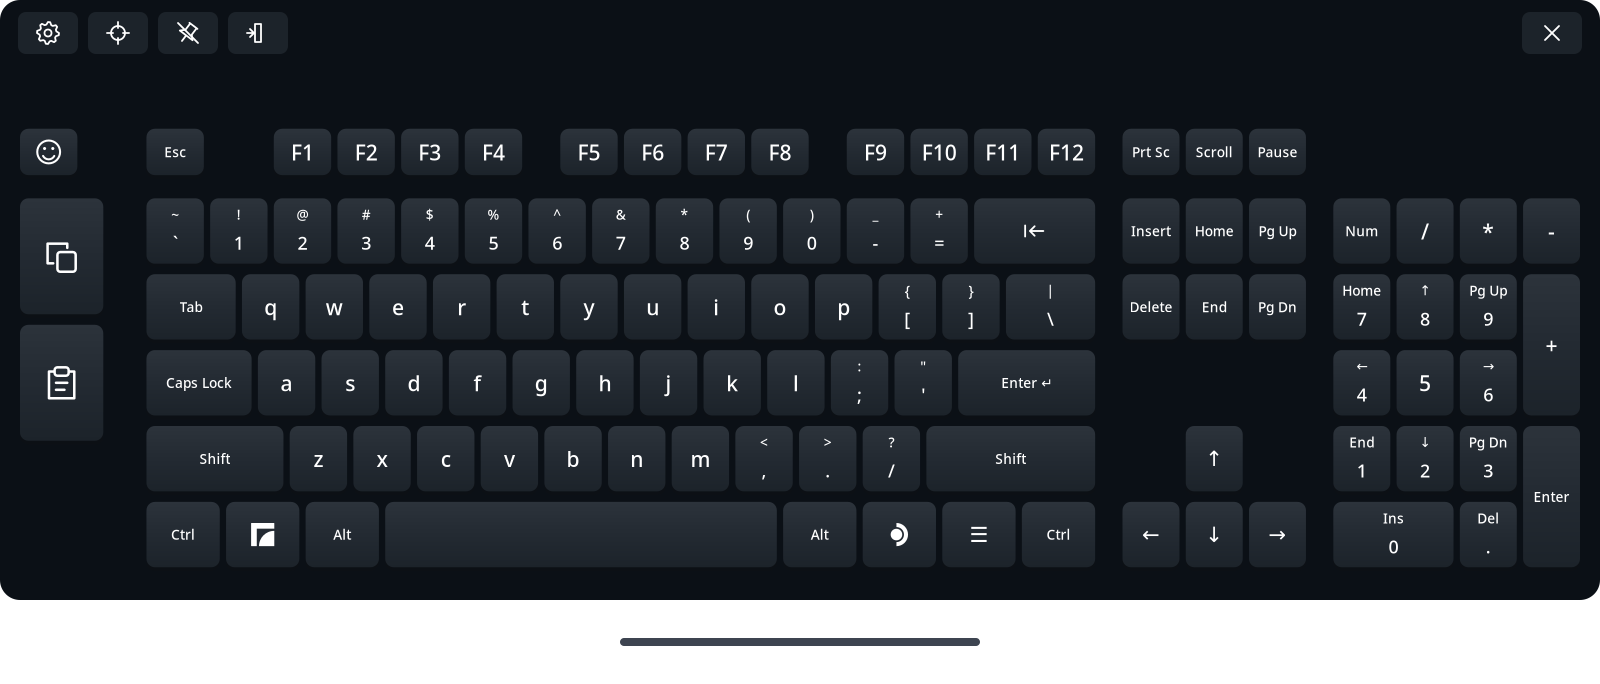
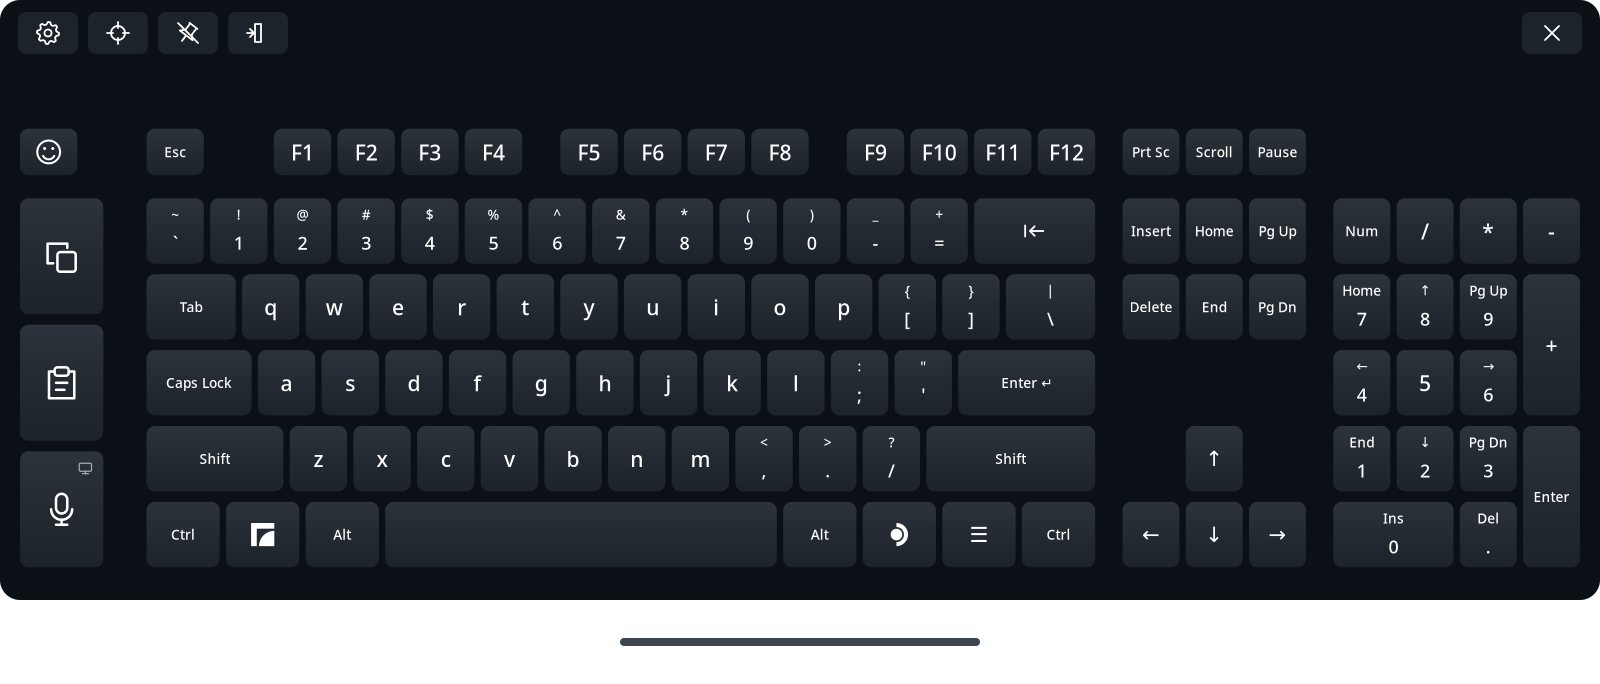
Describe dictation in the README and show the mic key in its image

Changed region(s): [[0.0, 0.6447, 0.0625, 0.7982]]

diff --git a/README.md b/README.md
@@ -6,13 +6,14 @@ A full-size alternative to Steam Frame's built-in virtual keyboard, made for eve
 
 ![Full Keyboard with the Graphite theme](docs/images/keyboard-graphite.png)
 
-*The default English layout and Graphite theme, captured from the app's native renderer.*
+*The default English layout and Graphite theme with dictation on, captured from the app's native renderer.*
 
 ## What it does
 
 - Full-size layout with F1–F12, navigation keys, arrow keys, numpad, Ctrl, Alt, and Shift.
 - Dedicated Copy and Paste icons that send Ctrl+C and Ctrl+V.
 - An emoji picker with recent emoji, categories and skin tones.
+- Dictation: speak instead of typing, recognized on the headset or by your own Whisper speech server. Correct the text in an editor and send it, or let **Type as I speak** type each phrase straight into the app. See [dictation](#dictation).
 - Native Enter and numpad Enter keys. The focused app decides whether Enter submits or inserts a newline.
 - Controller laser typing, press/release haptic clicks, and subtle hover feedback.
 - Experimental swipe typing, off by default, for English, German, French, Spanish, Italian, Brazilian Portuguese, Ukrainian, Russian and Chinese Pinyin. Swipe typing is powered by "FUTO Swipe" technology.
@@ -71,6 +72,8 @@ For a manual update, quit Full Keyboard first. With native replacement enabled, 
 | Desktop application menu | Tap the right SteamOS icon for a native right Super press/release; the desktop controls its action |
 | Clear a tapped modifier | Tap it again |
 | Copy / paste | Use the two icons on the left; select text first when copying |
+| Dictate | Press the mic key below Copy and Paste and speak. Phrases appear in an editor in place of the function keys; correct them with the keys, then press **Send** to type the text into the app. Esc stops listening |
+| Type as I speak | Turn it on in the **Dictation** settings card. The mic key then listens on the normal keyboard and types each phrase into the app |
 | Type emoji | Press the smiley key at the top left. Scroll the grid by dragging or with the thumbstick, choose a category above it, and release the trigger on an emoji to type it. Hold a toned emoji to choose a skin tone. The arrow key at the top left returns to the keyboard |
 | Move / rotate | Unpin, point at the line below the keyboard, hold the trigger, move your hand, then release |
 | Use the headset cursor | Press AUX to show the head cursor. Aim at keys with your head and click AUX; hold AUX on the movement line to move the keyboard |
@@ -112,11 +115,30 @@ Copy a bundled JSON profile from `~/.local/share/framekeyboard/current/share/fra
 
 Use a new profile `id` to add a choice, or the same `id` to override a bundled one. [Configuration reference](docs/configuration.md) covers fields, favorites, validation, and saved placement.
 
+## Dictation
+
+Choose a mode in Settings → **Dictation**, then **Apply and save**:
+
+- **On device**, the default, recognizes speech on the Steam Frame with a small multilingual Whisper model, downloaded once (264 MB) after you confirm. English and Spanish are the most accurate; other languages work with lower accuracy.
+- **Self-hosted** sends speech to a Whisper server you run on a computer on your network, which is faster and more accurate in every language. [Speech server setup](docs/speech-server.md) covers Linux, macOS and Windows; only the Linux steps have been verified. **Test** checks the connection, and **Fall back to on device** uses the headset when the server cannot be reached.
+- **Off** hides the mic key.
+
+Dictation works in every bundled language except Japanese JIS. A small icon on the mic key shows where speech is recognized: a headset for on device, a computer for your server. The controller ticks when listening starts and pulses when it stops.
+
+Privacy:
+
+- On device, audio never leaves the Frame. Self-hosted, it goes only to the server you entered, and only while you dictate or press Test. A plain `host:port` address is unencrypted, so keep the server on your own network; Settings warns about addresses that are not local.
+- Audio and text stay in memory only. Nothing you say or type is logged or saved.
+- Listening stops as soon as you take the headset off or it wakes from sleep, and after 60 s of silence.
+- The microphone hears everyone nearby. While a game runs, game sound may be picked up too, and the status line says so while listening.
+
+See [dictation](docs/dictation.md) for the details.
+
 ## How it works
 
-The keyboard is a native C++20 app. Cairo/Pango draw the keys, Vulkan/OpenVR display the panel, and libei sends native controls to the Frame's local Gamescope compositor. A feature-checked Gamescope text-input protocol sends characters resolved from the selected layout, including Japanese, Chinese and Korean composition. It does not run a browser or need an internet connection.
+The keyboard is a native C++20 app. Cairo/Pango draw the keys, Vulkan/OpenVR display the panel, and libei sends native controls to the Frame's local Gamescope compositor. A feature-checked Gamescope text-input protocol sends characters resolved from the selected layout, including Japanese, Chinese and Korean composition. It does not run a browser. It needs no internet connection, except to download the on-device speech model once.
 
-Copy and Paste send shortcuts; the app does not read clipboard contents. It does not log typed text or save composition history; the emoji picker keeps a local list of recently used emoji, which its Clear button empties. Placement and profile preferences are stored locally.
+Copy and Paste send shortcuts; the app does not read clipboard contents. When dictation's **Send** is set to Paste, it writes the sent text to the clipboard and pastes it with Ctrl+V. It does not log typed text or save composition history; the emoji picker keeps a local list of recently used emoji, which its Clear button empties. Placement and profile preferences are stored locally.
 
 The visible panel polls input and follows the dashboard at a target 60 Hz. While hidden, polling drops to 4 Hz. It redraws the texture only when its display changes or a key animation runs. With replacement enabled, closing the panel keeps the app resident for the next native request; Settings → Quit Full Keyboard exits it. With replacement off, closing the keyboard exits the process. Battery impact has not been benchmarked.
 

diff --git a/docs/building.md b/docs/building.md
@@ -138,14 +138,16 @@ Repeat with the same headset/dashboard state for a candidate build. A changed pr
 
 ## Refresh the README image
 
-Render the bundled default profile using an empty temporary config directory:
+Render the bundled default profile from a temporary config directory with Self-hosted dictation chosen, so the mic key shows; On device would hide it until the model is downloaded. The address is a placeholder and appears nowhere in the image:
 
 ```sh
 screenshot_config=$(mktemp -d)
+printf '%s' '{"schema_version":1,"active":{"layout":"en-us-full","language":"en-us","theme":"graphite"},"dictation":"server","dictation_server":"speech.local:8031"}' \
+  > "$screenshot_config/config.json"
 mkdir -p docs/images
 ./build/host/framekeyboard --config-dir "$screenshot_config" \
   --render docs/images/keyboard-graphite.png
-rmdir "$screenshot_config"
+rm -r "$screenshot_config"
 ```
 
 Image exports omit the interactive preview's input notice. This is a native-renderer capture, not an in-headset photograph. It contains no browser window or personal text. Inspect it before committing. Keep the README caption explicit about its source.
